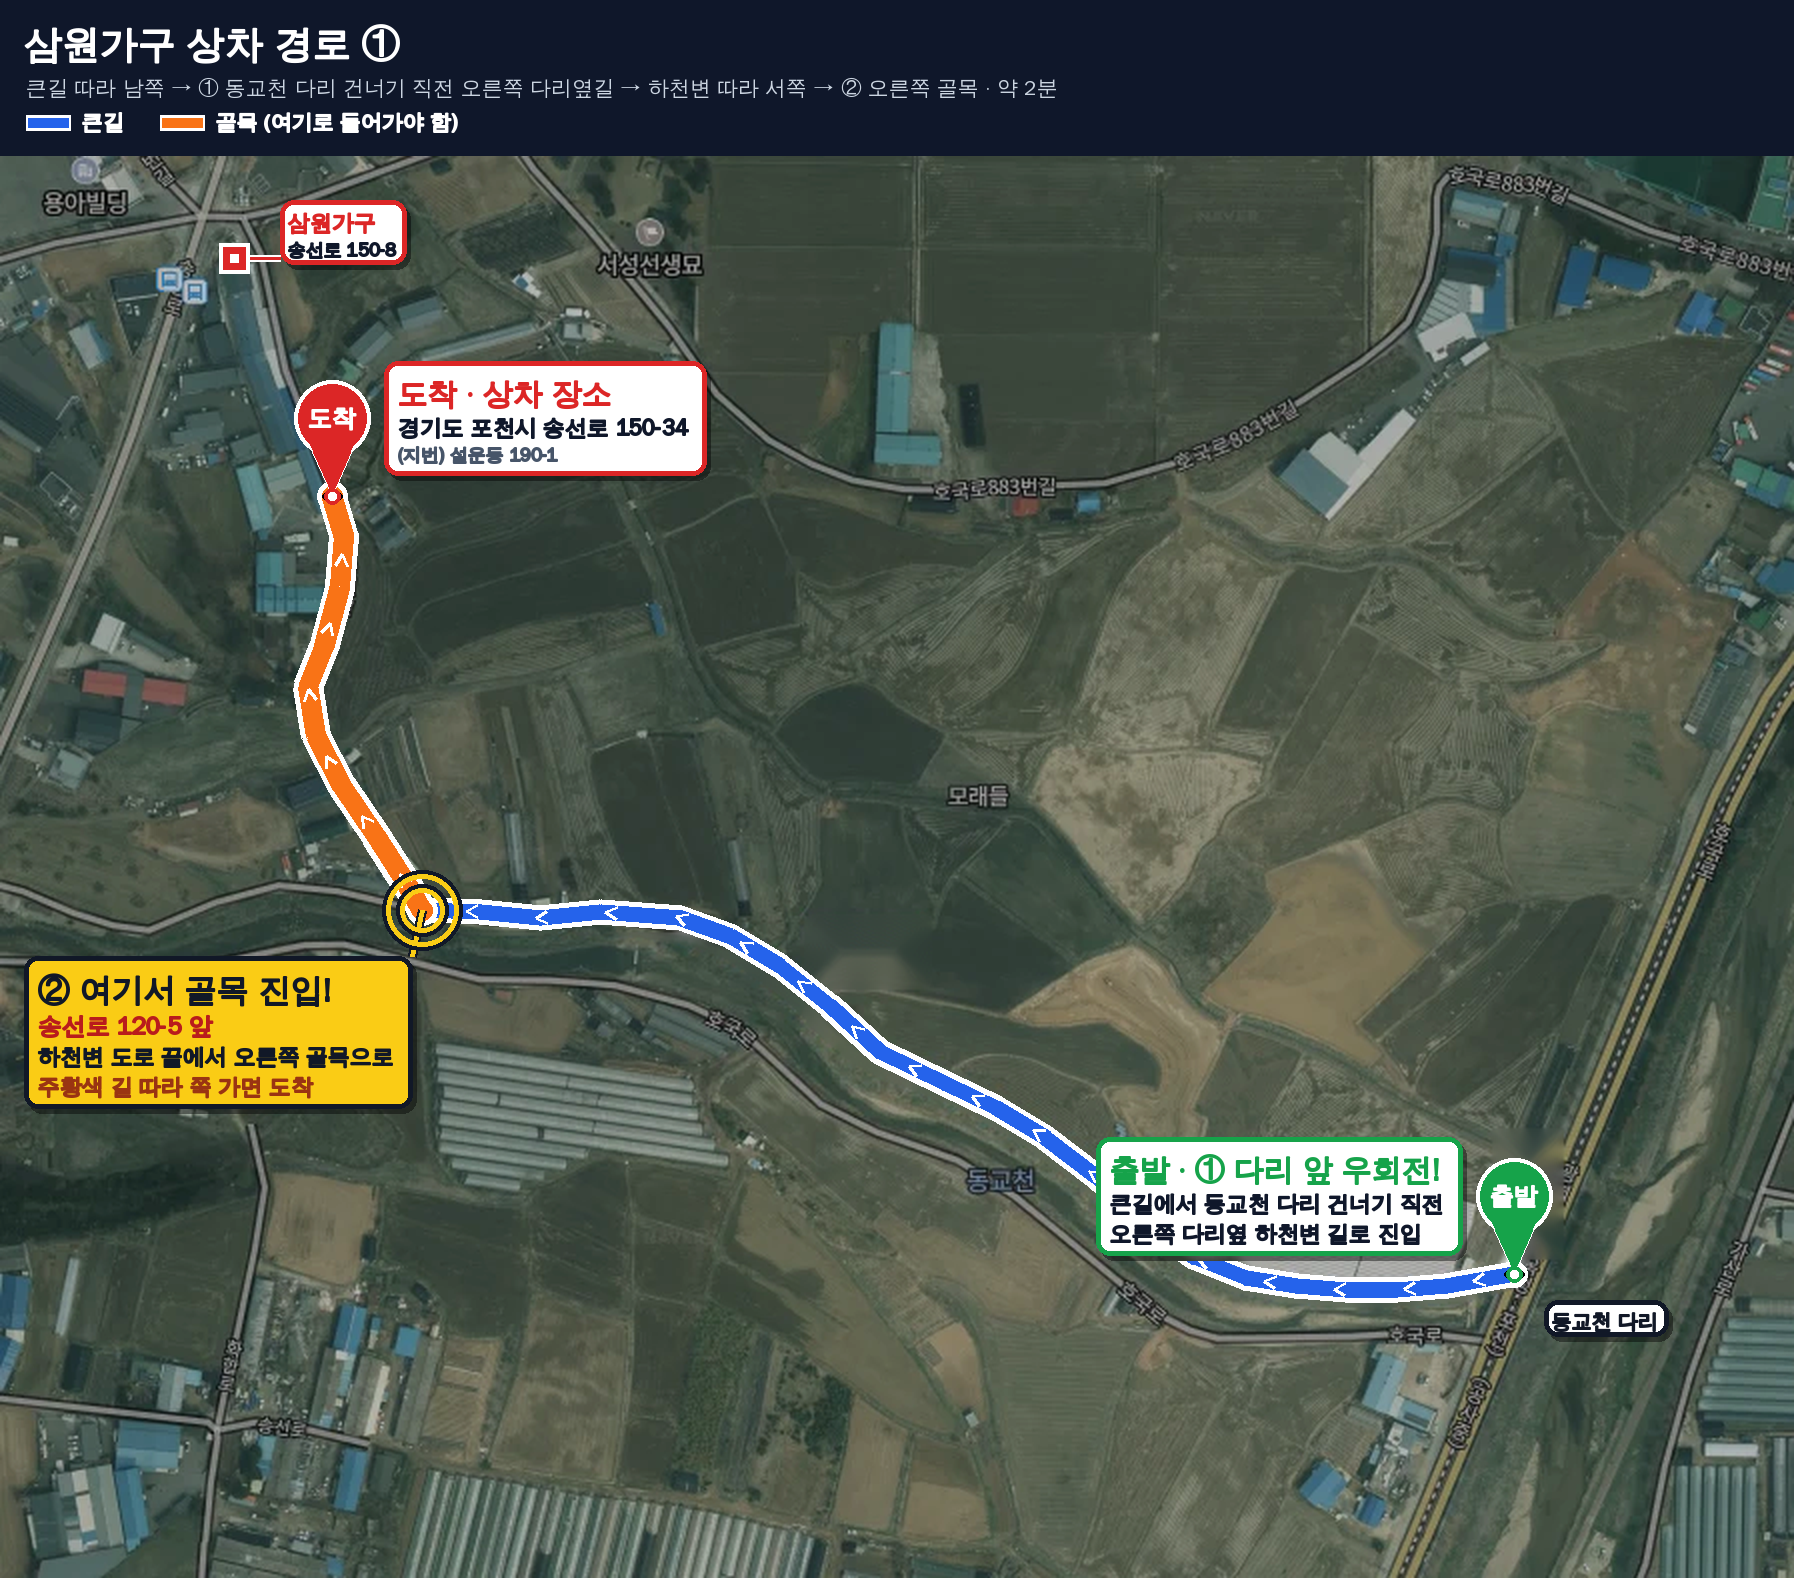
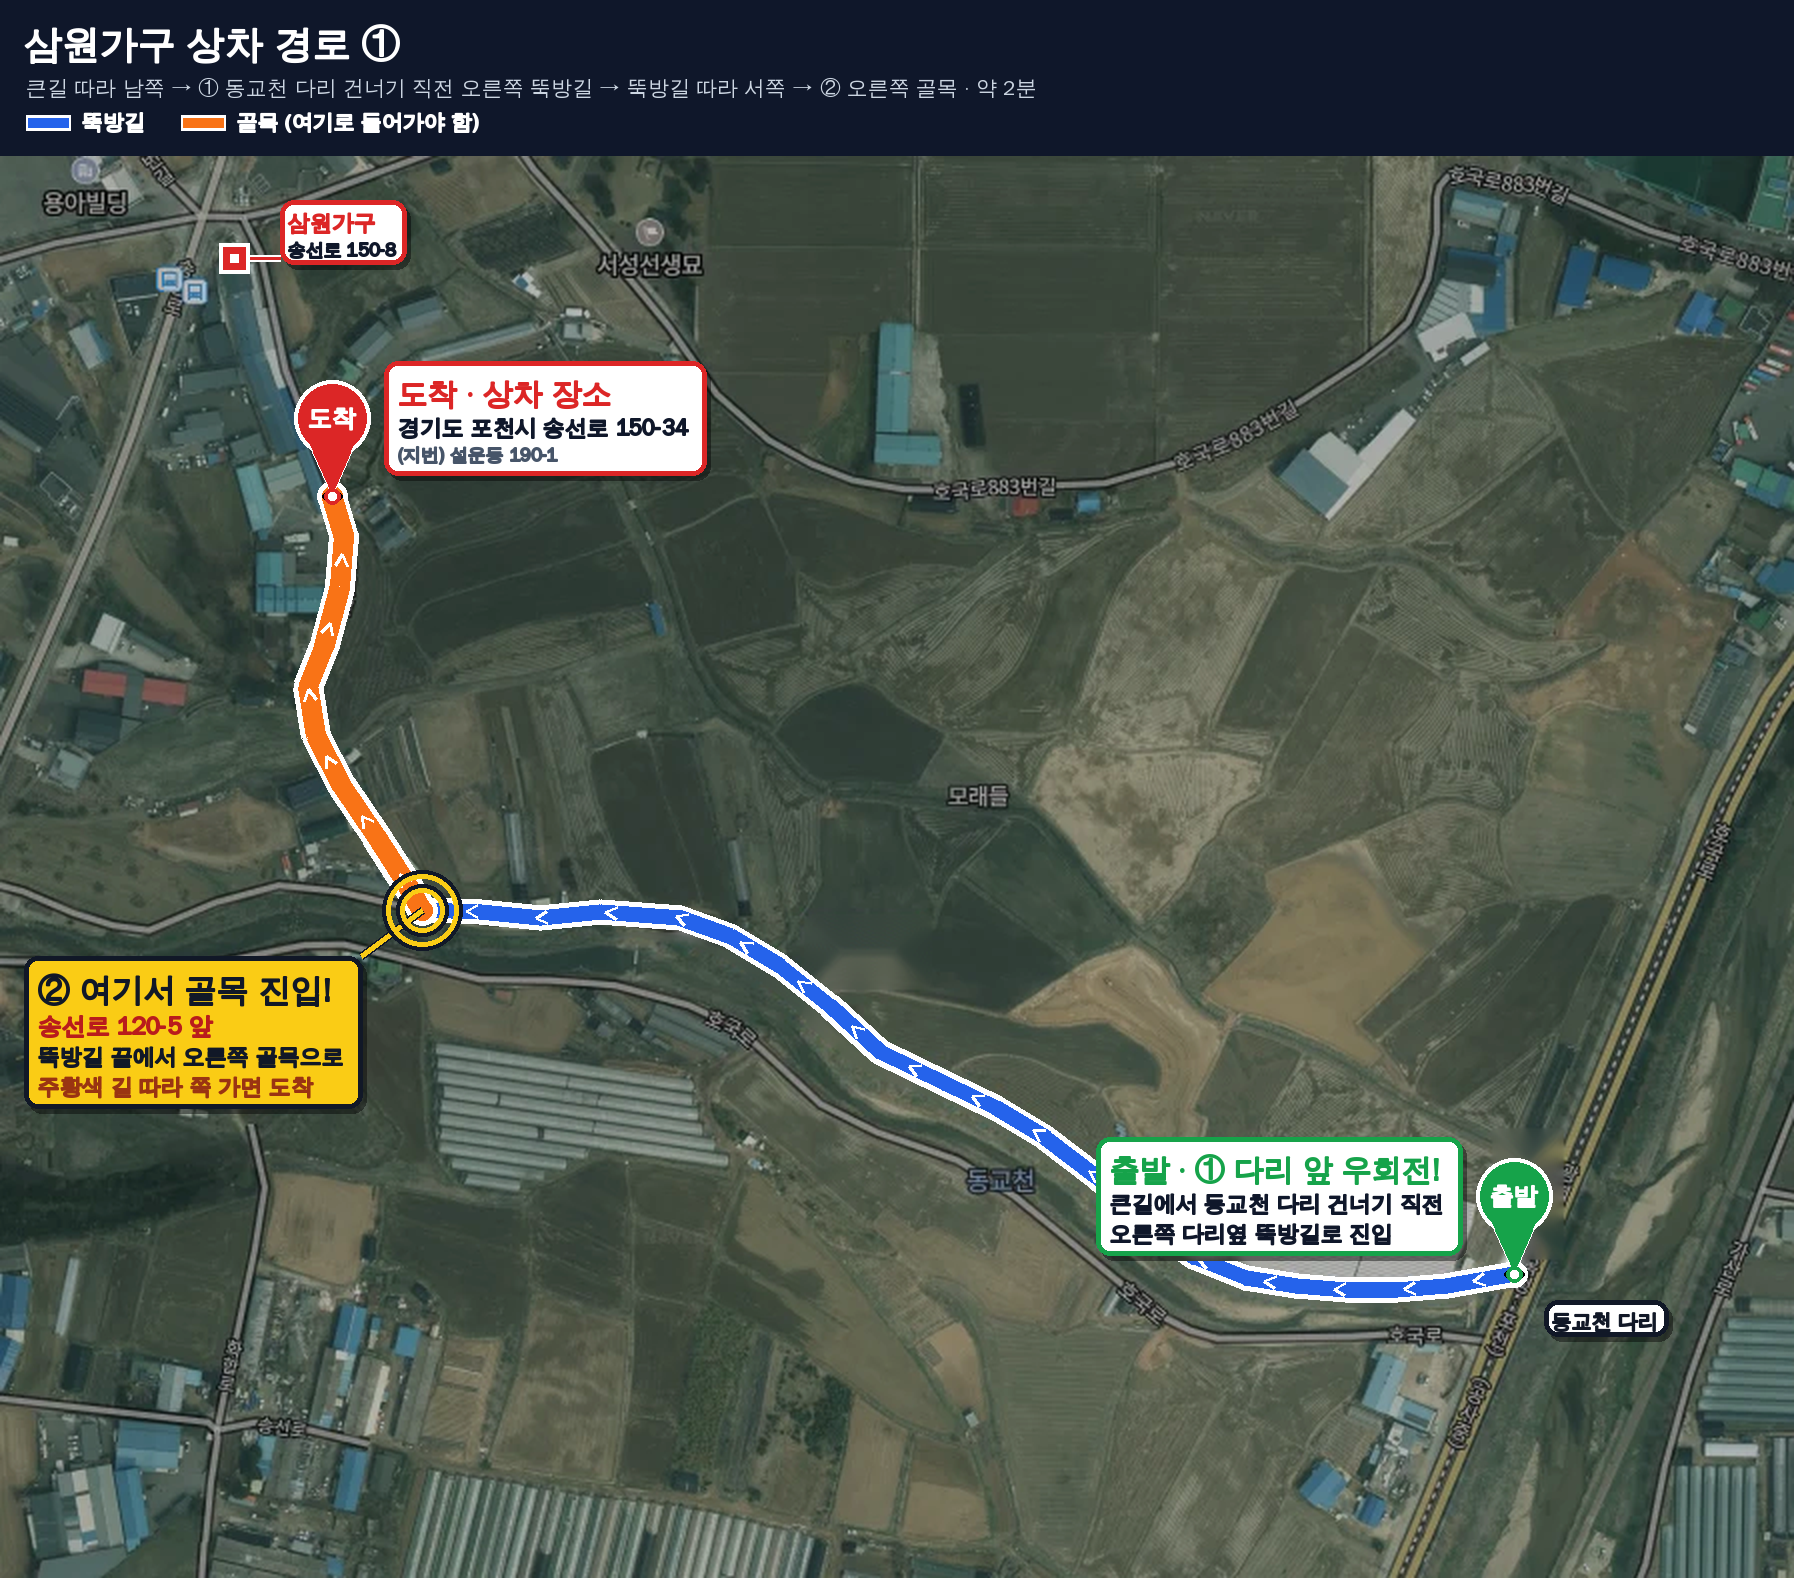
파란 구간을 뚝방길로 표기, 2번 경로 출발~다리 큰길은 보라색으로 구분
Claude-Session: https://claude.ai/code/session_01Dz7PcBDYJJtodKWJVErJmj

diff --git a/make_maps.py b/make_maps.py
@@ -23,6 +23,7 @@ NAVY = (15, 23, 42)
 WHITE = (255, 255, 255)
 ROUTE = (37, 99, 235)
 ALLEY = (249, 115, 22)
+BIG_ROAD = (124, 58, 237)
 YELLOW = (250, 204, 21)
 DARK = (17, 24, 39)
 
@@ -31,7 +32,7 @@ ROUTES = [
         "src": "images/route1.webp",
         "out": "maps/경로1.png",
         "title": "삼원가구 상차 경로 ①",
-        "sub": "큰길 따라 남쪽 → ① 동교천 다리 건너기 직전 오른쪽 다리옆길 → 하천변 따라 서쪽 → ② 오른쪽 골목 · 약 2분",
+        "sub": "큰길 따라 남쪽 → ① 동교천 다리 건너기 직전 오른쪽 뚝방길 → 뚝방길 따라 서쪽 → ② 오른쪽 골목 · 약 2분",
         # 지울 영역: (x0, y0, x1, y1, 경로선 보존 여부)
         # 지울 영역 (x0, y0, x1, y1): 경유 마커, 소요시간 말풍선, 기존 핀
         "erase": [(600, 500, 636, 556), (402, 380, 466, 416),
@@ -48,11 +49,11 @@ ROUTES = [
         "turn": 20,
         "turn_box": (24, 800),
         "turn_title": "② 여기서 골목 진입!",
-        "turn_text": "하천변 도로 끝에서 오른쪽 골목으로",
-        # 큰길에서 동교천 다리 건너기 직전 오른쪽 다리옆길로 빠지는 지점 = 출발
+        "turn_text": "뚝방길 끝에서 오른쪽 골목으로",
+        # 큰길에서 동교천 다리 건너기 직전 오른쪽 다리옆 뚝방길로 빠지는 지점 = 출발
         "start_lines": [("출발 · ① 다리 앞 우회전!", 30, GREEN),
                         ("큰길에서 동교천 다리 건너기 직전", 22, NAVY),
-                        ("오른쪽 다리옆 하천변 길로 진입", 22, NAVY)],
+                        ("오른쪽 다리옆 뚝방길로 진입", 22, NAVY)],
         "tags": [((772, 572), "동교천 다리")],
         # 삼원가구 실제 위치(주소 지점)와 라벨 위치
         # samwon_location.png 를 이 지도에 겹칠 때의 위치 (템플릿 매칭으로 구함)
@@ -64,7 +65,7 @@ ROUTES = [
         "src": "images/route2.webp",
         "out": "maps/경로2.png",
         "title": "삼원가구 상차 경로 ②",
-        "sub": "큰길 따라 북쪽 → ① 동교천 다리 건너 바로 오른쪽 다리옆길 → 하천변 따라 동쪽 → ② 왼쪽 골목 · 약 2분",
+        "sub": "큰길 따라 북쪽 → ① 동교천 다리 건너 바로 오른쪽 뚝방길 → 뚝방길 따라 동쪽 → ② 왼쪽 골목 · 약 2분",
         "erase": [(376, 262, 412, 304), (322, 357, 390, 393),
                   (88, 504, 124, 556), (360, 106, 398, 152)],
         "path": [(106, 549), (201, 334), (230, 336), (260, 345), (290, 356), (320, 350),
@@ -73,16 +74,17 @@ ROUTES = [
                  (400, 150), (396, 142)],
         "start_label_side": "right",
         "end_label_side": "left",
+        "big_road": 1,   # path[0..1] 출발~다리는 큰길
         "turn": 9,
         "turn_box": (None, 750),
         "turn_title": "② 여기서 골목 진입!",
-        "turn_text": "하천변 도로 끝에서 왼쪽 골목으로 크게 꺾기",
-        # 큰길에서 동교천 다리를 건너자마자 오른쪽 다리옆길로 빠지는 지점
+        "turn_text": "뚝방길 끝에서 왼쪽 골목으로 크게 꺾기",
+        # 큰길에서 동교천 다리를 건너자마자 오른쪽 다리옆 뚝방길로 빠지는 지점
         "notes": [{
             "at": 1, "box": (16, 470),
             "lines": [("① 다리 건너자마자 우회전!", 32, DARK),
                       ("동교천 다리를 건너면 바로 오른쪽", 22, DARK),
-                      ("다리옆 하천변 길로 진입", 22, DARK)],
+                      ("다리옆 뚝방길로 진입", 22, DARK)],
         }],
         # 다리 위치 표시 (원본 좌표, 라벨 좌상단)
         "tags": [((110, 350), "동교천 다리")],
@@ -272,7 +274,10 @@ def build(cfg):
 
     pts = [(x * SCALE, y * SCALE) for x, y in cfg["path"]]
     ti = cfg["turn"]
-    draw_route(d, pts[:ti + 1])
+    bi = cfg.get("big_road", 0)
+    if bi:
+        draw_route(d, pts[:bi + 1], BIG_ROAD)
+    draw_route(d, pts[bi:ti + 1])        # 뚝방길은 파란색
     draw_route(d, pts[ti:], ALLEY, 20)   # 골목 구간은 주황색으로 굵게
     s, e = pts[0], pts[-1]
 
@@ -317,7 +322,10 @@ def build(cfg):
     text_bold(d, (24, 20), cfg["title"], 38, WHITE)
     d.text((26, 74), cfg["sub"], font=font(21), fill=(203, 213, 225))
     lx, ly = 26, 122
-    for color, label in ((ROUTE, "큰길"), (ALLEY, "골목 (여기로 들어가야 함)")):
+    legend = [(ROUTE, "뚝방길"), (ALLEY, "골목 (여기로 들어가야 함)")]
+    if cfg.get("big_road"):
+        legend.insert(0, (BIG_ROAD, "큰길"))
+    for color, label in legend:
         d.line([(lx, ly), (lx + 44, ly)], fill=WHITE, width=16)
         d.line([(lx + 2, ly), (lx + 42, ly)], fill=color, width=10)
         text_bold(d, (lx + 56, ly), label, 21, WHITE, anchor="lm")
